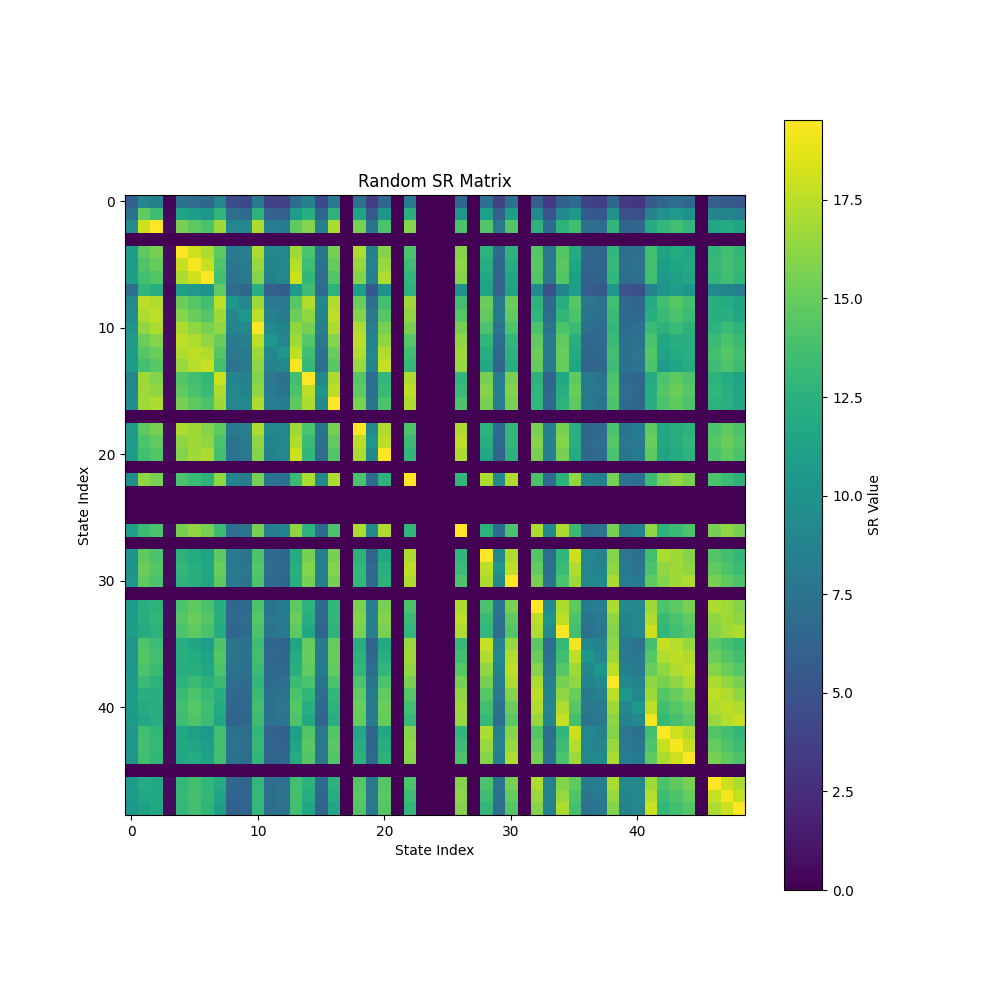
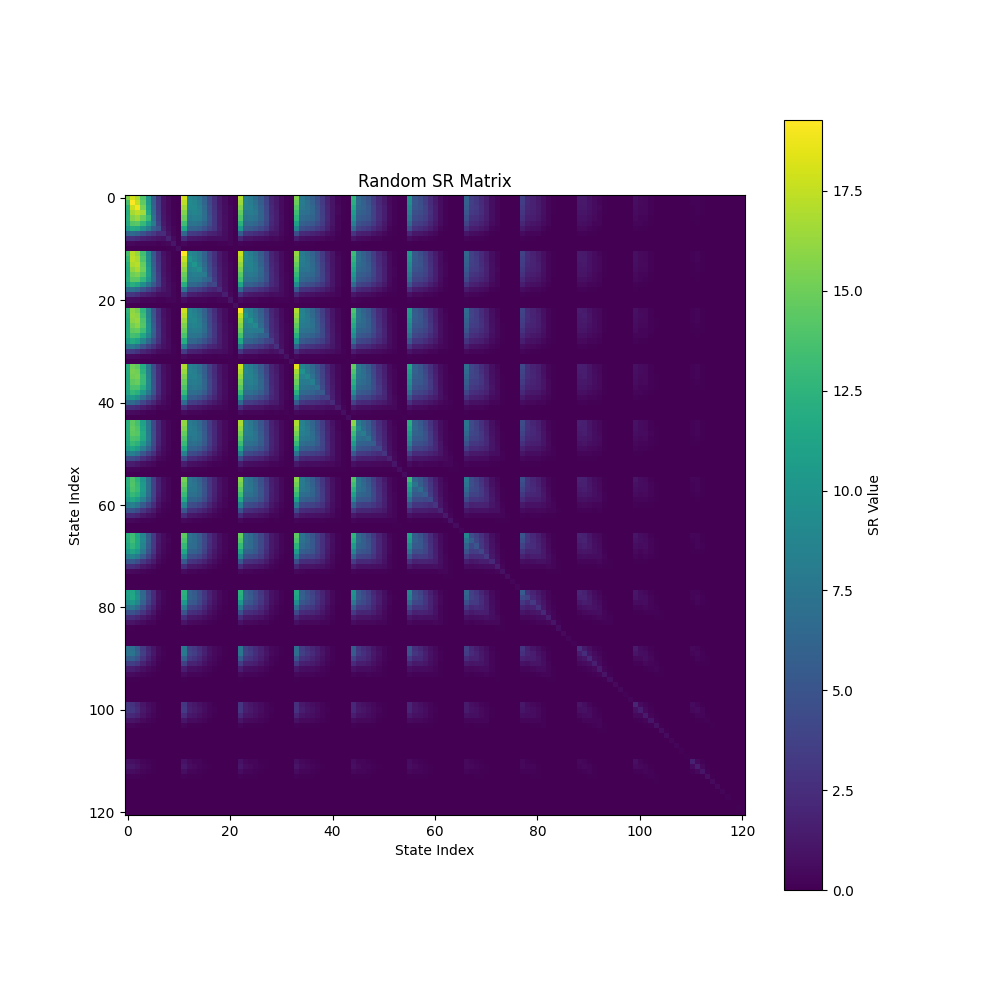
late

diff --git a/SRGoalSlice.py b/SRGoalSlice.py
@@ -12,12 +12,12 @@ cmap = plt.cm.viridis
 cmap.set_bad(color='white')
 
 grid_size = 11
-pattern = "four_rooms"
+pattern = "empty"
 env = SimpleGrid(grid_size, block_pattern=pattern, obs_mode="index")
 env.reset(agent_pos=[0, 0], goal_pos=[0, grid_size - 1])
 
 # Plot the arena
-print("Four Rooms Arena: ")
+# print("Four Rooms Arena: ")
 
 # ------------------ Recording Functions --------------------------------
 def record_agent_trajectories(env, agent, episodes, episode_length, epsilon, filename):
@@ -235,19 +235,26 @@ class TabularSuccessorAgent(object):
         self.state_size = state_size
         self.action_size = action_size
         self.M = np.zeros((action_size, state_size, state_size))
-        self.w = np.zeros(state_size)
+        self.w = np.zeros((goal_size, state_size))
         self.learning_rate = learning_rate
         self.gamma = gamma
         self.goal_size = goal_size
         self.goals = np.zeros((state_size, grid_size, grid_size), dtype=int)
     
+    # OLD FUNCTION
     # Computes action values by combining the SR with the current reward prediction (w) or a specified goal
+    # def Q_estimates(self, state, goal=None):
+    #     if goal is None:
+    #         goal = self.w
+    #     else:
+    #         goal = utils.onehot(goal, self.state_size)
+    #     return np.matmul(self.M[:, state, :], goal)
+    
     def Q_estimates(self, state, goal=None):
         if goal is None:
-            goal = self.w
-        else:
-            goal = utils.onehot(goal, self.state_size)
-        return np.matmul(self.M[:, state, :], goal)
+            goal = np.argmax(np.sum(self.w, axis=1))
+        goal_reward = self.goals[goal].flatten()
+        return np.matmul(self.M[:, state, :], self.w[goal])
     
     # epsilon greedy policy for action selection
     def sample_action(self, state, goal=None, epsilon=0.0):
@@ -263,7 +270,7 @@ class TabularSuccessorAgent(object):
     # TODO     # Not sure why passing in a goal size doesnt work 
     # ----------------------------------------------------------------
     def generate_goal_matrices(self, state_size, goal_size):
-        goal_size = 104 # this is 40 for grid size = 7 and 104 for grid_size = 11
+        goal_size = 120 # this is 40 for grid size = 7 and 104 for grid_size = 11
         self.goals = np.zeros((state_size, grid_size, grid_size), dtype=int)
         
         available_positions = [(x, y) for x in range(grid_size) for y in range(grid_size) if [x, y] not in env.blocks]
@@ -277,13 +284,26 @@ class TabularSuccessorAgent(object):
         
         return self.goals
 
+    # OLD W UPDATE
     # Updates the reward prediction weights based on the rewards observed
+    # def update_w(self, current_exp):
+    #     s_1 = current_exp[2]
+    #     r = current_exp[3]
+    #     error = r - self.w[s_1]
+    #     self.w[s_1] += self.learning_rate * error        
+    #     return error
+    
     def update_w(self, current_exp):
-        s_1 = current_exp[2]
-        r = current_exp[3]
-        error = r - self.w[s_1]
-        self.w[s_1] += self.learning_rate * error        
-        return error
+        s_1 = current_exp[2]  # next state
+        r = current_exp[3]  # reward received
+        
+        for goal in range(self.goal_size):
+            goal_reward = self.goals[goal].flatten()  # Use the goal matrix instead of onehot
+            predicted_reward = np.dot(self.w[goal], goal_reward)
+            error = r - predicted_reward
+            self.w[goal] += self.learning_rate * error * goal_reward
+        
+        return error # might want to return an average error instead, ask supervisors
     
     # The core learning method that updates the SR using Q-learning.
     def update_sr(self, current_exp):
@@ -349,7 +369,7 @@ def get_goal_sequence(total_episodes, goal_size):
 # parameters for training
 train_episode_length = 40
 test_episode_length = 40
-episodes = 500000
+episodes = 50000
 gamma = 0.95
 lr = 5e-2
 
@@ -357,7 +377,7 @@ initial_train_epsilon = 0.6
 epsilon_decay = 0.995
 
 test_epsilon = 0.01
-goal_size = 1 # Testing with a goal from every state
+goal_size = 120 # Testing with a goal for every state
 
 # Initialize the agent and environment
 agent = TabularSuccessorAgent(env.state_size, env.action_size, lr, gamma, goal_size)
@@ -382,10 +402,10 @@ np.random.shuffle(goals_with_targets)
 # --------------------Random Policy Training Loop --------------------
 # This loop trains the agent using a random policy (epsilon = 1)
 
-random_policy_experiences = []
-random_policy_test_experiences = []
-random_policy_test_lengths = []
-random_policy_td_errors = []
+# random_policy_experiences = []
+# random_policy_test_experiences = []
+# random_policy_test_lengths = []
+# random_policy_td_errors = []
 
 # # Training loop for random policy
 # for goal_index in goals_with_targets:
@@ -483,7 +503,8 @@ remaining_episodes = episodes % len(goals_with_targets)
 if not os.path.exists('videos'):
     os.makedirs('videos')
 
-# Training Loop
+
+    
 for goal_index in goals_with_targets:
     goal_episodes = episodes_per_goal + (1 if remaining_episodes > 0 else 0)
     remaining_episodes = max(0, remaining_episodes - 1)
@@ -493,14 +514,10 @@ for goal_index in goals_with_targets:
 
     print(f"\nTraining on goal slice {goal_index} for {goal_episodes} episodes")
     
-    # Reset epsilon for new goal
     epsilon = initial_train_epsilon
 
     for episode in tqdm(range(goal_episodes), desc=f"Training goal slice {goal_index}"):
-        # training phase
-
         agent_start = random_valid_position(env)
-        # agent_start = [0,0]
         goal_pos = env.state_to_point(np.where(agent.goals[goal_index] == 1)[0][0])
 
         env.reset(agent_pos=agent_start, goal_pos=goal_pos)
@@ -508,7 +525,7 @@ for goal_index in goals_with_targets:
         episodic_error = []
 
         for step in range(train_episode_length):
-            action = agent.sample_action(state, epsilon=epsilon)
+            action = agent.sample_action(state, goal=goal_index, epsilon=epsilon)
             reward = env.step(action)
             next_state = env.observation
             done = env.done
@@ -516,7 +533,7 @@ for goal_index in goals_with_targets:
             experience = [state, action, next_state, reward, done]
             
             td_sr = agent.update_sr(experience)
-            td_w = agent.update_w(experience)
+            td_w = agent.update_w(experience)  # This now updates for all goals
             episodic_error.append(np.mean(np.abs(td_sr)))
             
             state = next_state

diff --git a/gridworld.py b/gridworld.py
@@ -180,9 +180,9 @@ class SimpleGrid(object):
             return 1.0
         elif list(self.agent_pos) in self.blocks:
             self.agent_pos = [max(0, min(self.grid_size-1, self.agent_pos[i] - move_array[i])) for i in range(2)]
-            return -0.1  # Small penalty for hitting a wall
+            return 0  # Small penalty for hitting a wall
         else:
-            return -0.01  # Small step cost
+            return 0  # Small step cost
 
     def state_to_goal(self, state):
         return self.state_to_obs(state)
